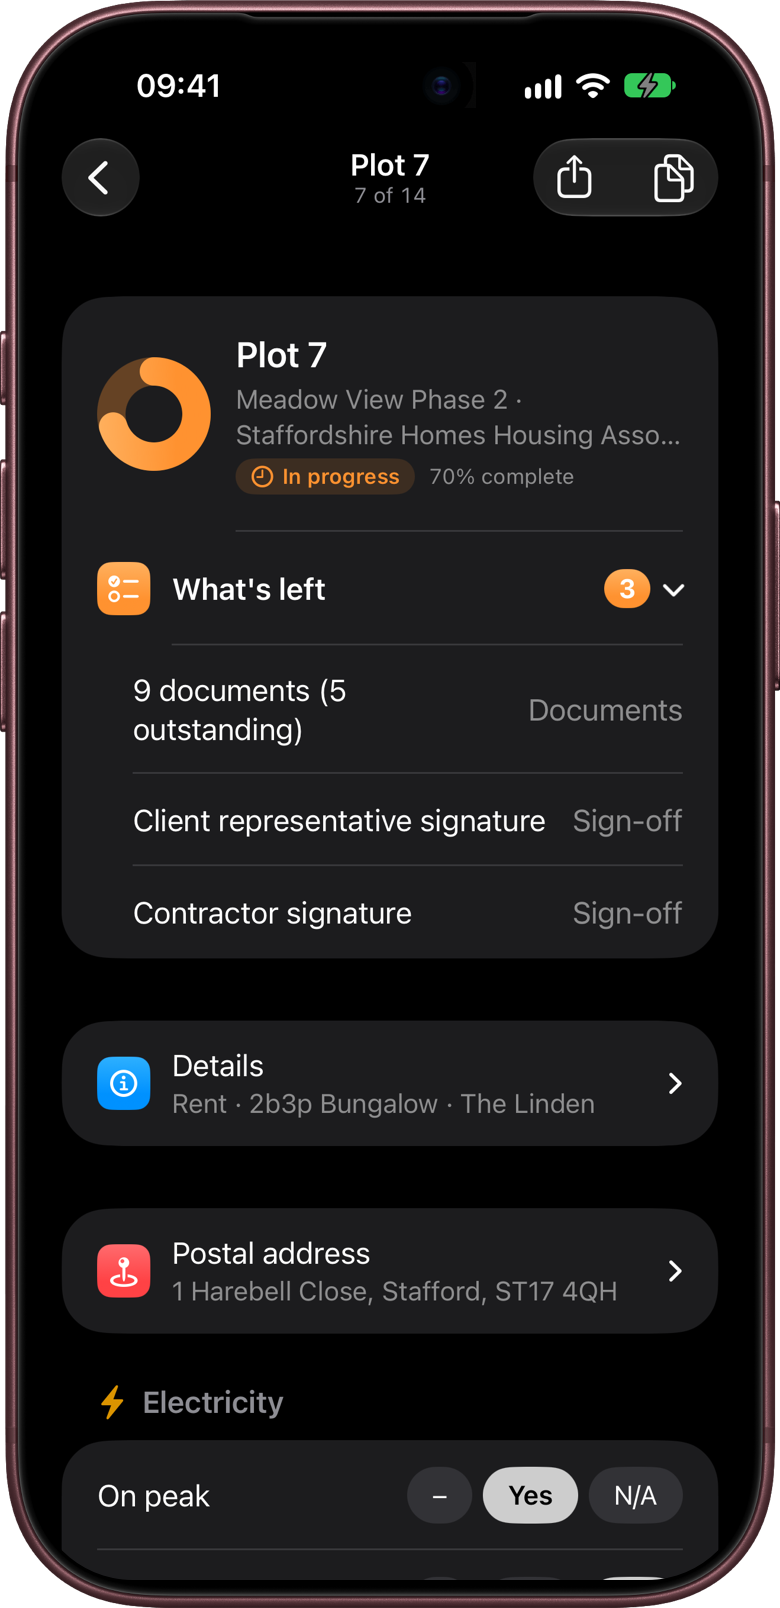
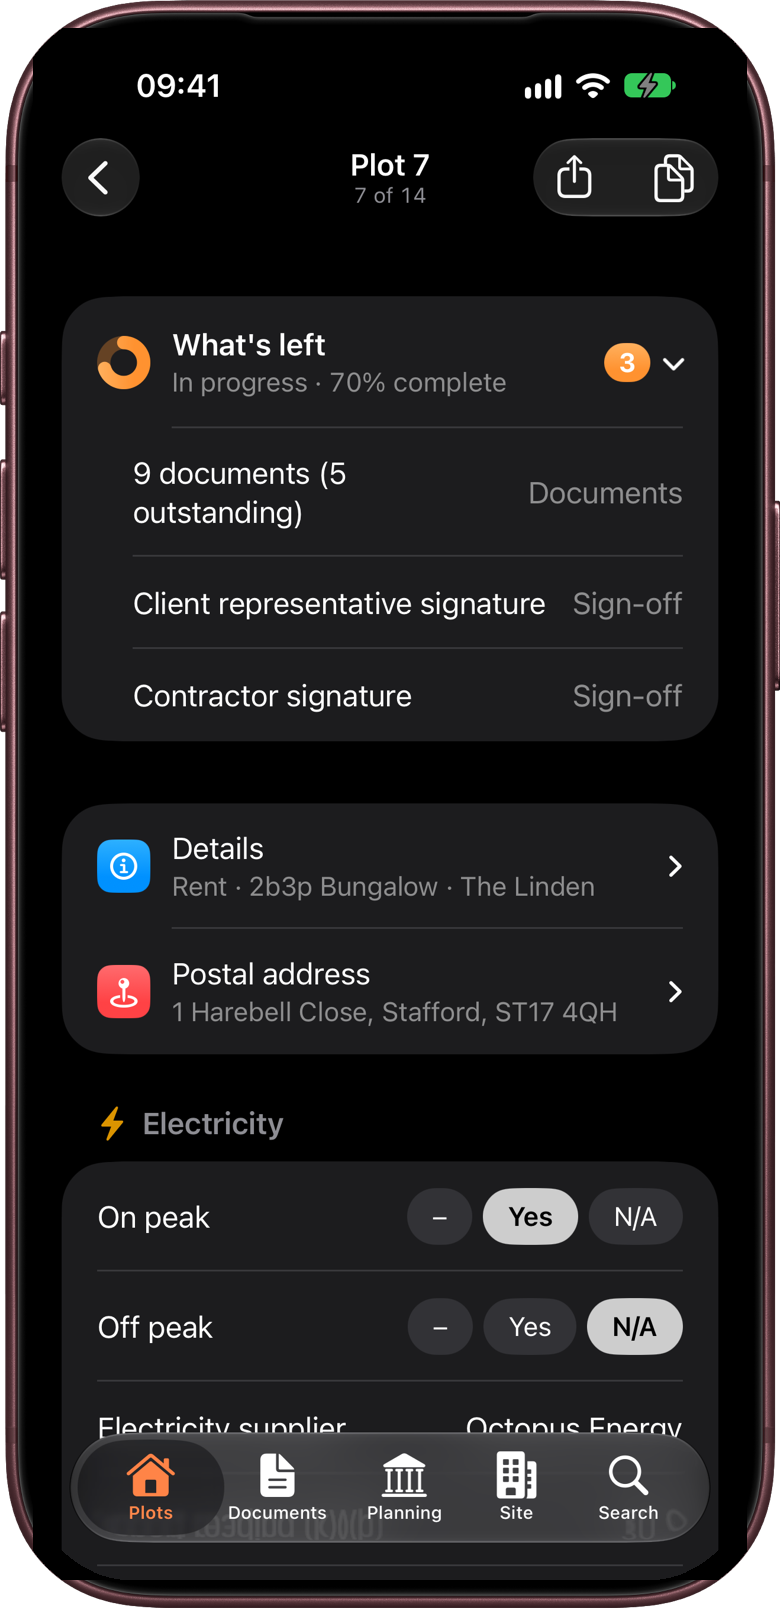
Manual: new KeyCheck screenshots for the tab bar layout
- Retake projects-screen, sample-projects, project-screen, plot-form, plot-form-top, plot-documents, copy-from-menu and project-documents
- Move the Plots tab picture into chapter 1's Inside a project section
- Update their descriptions and captions, and rebuild the search index
- Add a tool that puts an iPhone screenshot into the manual's iPhone frame

diff --git a/keycheck/manual-search-index.js b/keycheck/manual-search-index.js
@@ -22,7 +22,7 @@ window.KEYCHECK_MANUAL_INDEX = [
   "chapter": "1. What KeyCheck does",
   "heading": "Inside a project",
   "url": "manual-what-keycheck-does.html#inside-a-project",
-  "text": "An open project fills the screen, with a tab bar at the bottom: Tab What's on it Plots The list of plots, with a summary of how many are handed over. Documents The project's site-wide documents, and its attachments. Planning Planning decisions, conditions and S106 obligations. Site Insights, reports, the project log, communal keys and meters, and sharing. Search (magnifying glass) Searches everything in the project. On iPad, the tabs are a sidebar down the left. To go back to the Projects screen, tap Projects at the top left, or on iPhone swipe right from the left edge of the screen. KeyCheck remembers the last project you had open and goes back to it next time."
+  "text": "An open project fills the screen, with a tab bar at the bottom: Tab What's on it Plots The list of plots, with a summary of how many are handed over. Documents The project's site-wide documents, and its attachments. Planning Planning decisions, conditions and S106 obligations. Site Insights, reports, the project log, communal keys and meters, and sharing. Search (magnifying glass) Searches everything in the project. On iPad, the tabs are a sidebar down the left. To go back to the Projects screen, tap Projects at the top left, or on iPhone swipe right from the left edge of the screen. KeyCheck remembers the last project you had open and goes back to it next time. A project's Plots tab, with the tabs along the bottom"
  },
  {
   "chapter": "1. What KeyCheck does",
@@ -34,7 +34,7 @@ window.KEYCHECK_MANUAL_INDEX = [
   "chapter": "1. What KeyCheck does",
   "heading": "Records for the whole project",
   "url": "manual-what-keycheck-does.html#records-for-the-whole-project",
-  "text": "Some things belong to the whole site rather than one plot. These have their own place in the project, on the Documents, Planning and Site tabs: Record What it holds Project documents Site-wide paperwork, such as the fire strategy and warranties. Planning Planning decisions, conditions and S106 obligations. Communal keys Keys and fobs for bin stores, cycle stores, plant rooms and communal doors. Communal meters Meters serving the whole block, such as a landlord supply or solar panels. Project log Dated notes of site visits, issues, decisions and chases. Attachments Site plans, letters, photos and scanned documents for reference. A project screen, with the records for the whole project"
+  "text": "Some things belong to the whole site rather than one plot. These have their own place in the project, on the Documents, Planning and Site tabs: Record What it holds Project documents Site-wide paperwork, such as the fire strategy and warranties. Planning Planning decisions, conditions and S106 obligations. Communal keys Keys and fobs for bin stores, cycle stores, plant rooms and communal doors. Communal meters Meters serving the whole block, such as a landlord supply or solar panels. Project log Dated notes of site visits, issues, decisions and chases. Attachments Site plans, letters, photos and scanned documents for reference."
  },
  {
   "chapter": "1. What KeyCheck does",
@@ -586,7 +586,7 @@ window.KEYCHECK_MANUAL_INDEX = [
   "chapter": "6. Documents and certificates",
   "heading": "Marking a document",
   "url": "manual-documents-and-certificates.html#marking-a-document",
-  "text": "Each document has a status icon on the right. Swipe across the document, or tap the icon and choose a status: What you do Status Icon Meaning Swipe right Received Green tick You have the document. Swipe left Outstanding Red cross You've asked for it and are waiting for it. Nothing yet Not checked Empty circle Nobody has looked at this document yet. Tap the icon, then choose Not applicable Not applicable Grey dash This document doesn't apply to this plot. Swipe all the way across to mark it in one movement, or swipe a little way to see the buttons. Swiping left also shows Note . To clear a status back to Not checked, swipe the same way again and tap Clear , or tap the icon and choose Clear . Tip Mark a document Outstanding on the day you ask for it. That's when its waiting time starts on the progress report. Documents left as Not checked are still listed as missing, but with no waiting time. On a plot, documents are listed under a heading for each group, such as Heating & hot water , with a count of how many are done, for example \"Heating & hot water · 3 of 5\". (If the project has only one group, the heading is Instructions & certificates .) Received and Not applicable documents count as done. Outstanding ones don't, because they haven't arrived yet. Documents on a plot, with the date lines and a note under Warranty cover note"
+  "text": "Each document has a status icon on the right. Swipe across the document, or tap the icon and choose a status: What you do Status Icon Meaning Swipe right Received Green tick You have the document. Swipe left Outstanding Red cross You've asked for it and are waiting for it. Nothing yet Not checked Empty circle Nobody has looked at this document yet. Tap the icon, then choose Not applicable Not applicable Grey dash This document doesn't apply to this plot. Swipe all the way across to mark it in one movement, or swipe a little way to see the buttons. Swiping left also shows Note . To clear a status back to Not checked, swipe the same way again and tap Clear , or tap the icon and choose Clear . Tip Mark a document Outstanding on the day you ask for it. That's when its waiting time starts on the progress report. Documents left as Not checked are still listed as missing, but with no waiting time. On a plot, documents are listed under a heading for each group, such as Heating & hot water , with a count of how many are done, for example \"Heating & hot water · 3 of 5\". (If the project has only one group, the heading is Instructions & certificates .) Received and Not applicable documents count as done. Outstanding ones don't, because they haven't arrived yet. Documents on a plot, under a heading for each group"
  },
  {
   "chapter": "6. Documents and certificates",
@@ -652,7 +652,7 @@ window.KEYCHECK_MANUAL_INDEX = [
   "chapter": "6. Documents and certificates",
   "heading": "Project documents",
   "url": "manual-documents-and-certificates.html#project-documents",
-  "text": "Open a project and tap the Documents tab. Below the Attachments row (chapter 7) are the project documents. The screen works like the documents on a plot: swipe or tap the status icon to mark a document, and tap a name for its history. Swiping left shows Outstanding and More . More , or touching and holding a document, lists Add note , Dates and history , Mark as chased today (for outstanding documents), Rename… , Convert to bundle… , Clear history and Remove from project , with Received, Outstanding and Not applicable as a row of buttons at the top. At the top, a ring shows how many are complete, for example \"6 of 11 complete\", with a summary such as \"4 received · 2 outstanding · 1 N/A\". (Complete means Received or Not applicable. Outstanding documents are still waiting, so they don't count.) Changes save as you make them. There's no Done button. Project documents, with the Collateral warranties bundle opened"
+  "text": "Open a project and tap the Documents tab. Below the Attachments row (chapter 7) are the project documents. The screen works like the documents on a plot: swipe or tap the status icon to mark a document, and tap a name for its history. Swiping left shows Outstanding and More . More , or touching and holding a document, lists Add note , Dates and history , Mark as chased today (for outstanding documents), Rename… , Convert to bundle… , Clear history and Remove from project , with Received, Outstanding and Not applicable as a row of buttons at the top. At the top, a ring shows how many are complete, for example \"6 of 11 complete\", with a summary such as \"4 received · 2 outstanding · 1 N/A\". (Complete means Received or Not applicable. Outstanding documents are still waiting, so they don't count.) Changes save as you make them. There's no Done button. The Documents tab, with Attachments at the top and the Collateral warranties bundle opened"
  },
  {
   "chapter": "6. Documents and certificates",

diff --git a/tools/frame-keycheck-screenshot.swift b/tools/frame-keycheck-screenshot.swift
@@ -1,0 +1,53 @@
+// Puts an iPhone screenshot into the KeyCheck manual's iPhone frame.
+// Usage, from the website folder:
+//   swift tools/frame-keycheck-screenshot.swift tools/keycheck-iphone-frame.png <screenshot> keycheck/images/<name>.png
+// The screenshot should be a full-screen iPhone 17 Pro screenshot (1206 × 2622), PNG or JPEG.
+import Foundation
+import CoreGraphics
+import ImageIO
+import UniformTypeIdentifiers
+
+let args = CommandLine.arguments
+guard args.count == 4 else { print("Usage: frame-keycheck-screenshot <template.png> <screenshot> <output.png>"); exit(1) }
+func image(_ path: String) -> CGImage {
+    guard let src = CGImageSourceCreateWithURL(URL(fileURLWithPath: path) as CFURL, nil),
+          let img = CGImageSourceCreateImageAtIndex(src, 0, nil) else { print("Can't read \(path)"); exit(1) }
+    return img
+}
+let frame = image(args[1]), shot = image(args[2])
+// The screen inside the 780 × 1608 frame (same in CG's bottom-up coordinates, as it's centred vertically).
+let screen = CGRect(x: 33, y: 28, width: 714, height: 1552)
+let ratio = Double(shot.height) / Double(shot.width)
+if abs(ratio - screen.height / screen.width) > 0.01 {
+    print("Warning: \(shot.width) × \(shot.height) isn't the shape of an iPhone 17 Pro screen (1206 × 2622), so it will be stretched.")
+}
+guard let ctx = CGContext(data: nil, width: frame.width, height: frame.height, bitsPerComponent: 8, bytesPerRow: 0,
+                          space: CGColorSpace(name: CGColorSpace.sRGB)!, bitmapInfo: CGImageAlphaInfo.premultipliedLast.rawValue) else { exit(1) }
+ctx.interpolationQuality = .high
+ctx.draw(shot, in: screen)
+ctx.draw(frame, in: CGRect(x: 0, y: 0, width: frame.width, height: frame.height))
+
+// The screenshot's square corners reach past the phone's rounded outline. Everything outside the phone
+// (the frame's see-through pixels that join the image's edge) is put back exactly as the frame has it.
+let w = frame.width, h = frame.height
+var frameBytes = [UInt8](repeating: 0, count: w * h * 4)
+guard let frameCtx = CGContext(data: &frameBytes, width: w, height: h, bitsPerComponent: 8, bytesPerRow: w * 4,
+                               space: CGColorSpace(name: CGColorSpace.sRGB)!, bitmapInfo: CGImageAlphaInfo.premultipliedLast.rawValue),
+      let outBytes = ctx.data?.assumingMemoryBound(to: UInt8.self) else { exit(1) }
+frameCtx.draw(frame, in: CGRect(x: 0, y: 0, width: w, height: h))
+let rowBytes = ctx.bytesPerRow
+var outside = [Bool](repeating: false, count: w * h)
+var stack = [(0, 0), (w - 1, 0), (0, h - 1), (w - 1, h - 1)]
+while let (x, y) = stack.popLast() {
+    guard x >= 0, y >= 0, x < w, y < h, !outside[y * w + x], frameBytes[(y * w + x) * 4 + 3] < 255 else { continue }
+    outside[y * w + x] = true
+    stack += [(x + 1, y), (x - 1, y), (x, y + 1), (x, y - 1)]
+}
+for y in 0..<h { for x in 0..<w where outside[y * w + x] {
+    for c in 0..<4 { outBytes[y * rowBytes + x * 4 + c] = frameBytes[(y * w + x) * 4 + c] }
+} }
+guard let out = ctx.makeImage(),
+      let dest = CGImageDestinationCreateWithURL(URL(fileURLWithPath: args[3]) as CFURL, UTType.png.identifier as CFString, 1, nil) else { exit(1) }
+CGImageDestinationAddImage(dest, out, nil)
+CGImageDestinationFinalize(dest)
+print("Framed \(args[3])")

diff --git a/keycheck/manual-what-keycheck-does.html b/keycheck/manual-what-keycheck-does.html
@@ -63,7 +63,7 @@
       </p>
       <figure class="shot">
         <a href="images/projects-screen.png" target="_blank" rel="noopener noreferrer">
-          <img src="images/projects-screen.png" alt="The Projects screen showing the two sample projects with their progress rings" loading="lazy">
+          <img src="images/projects-screen.png" alt="The Projects screen, with a map showing both sample projects, totals of 19 plots and units, 7 in progress and 6 handed over, and the two sample projects: Riverside Business Park at 74% with 5 buildings, and Meadow View Phase 2 at 61% with 14 plots" loading="lazy">
         </a>
         <figcaption>The Projects screen, with the two sample projects</figcaption>
       </figure>
@@ -85,6 +85,12 @@
         </table>
       </div>
       <p>On iPad, the tabs are a sidebar down the left. To go back to the Projects screen, tap <strong>Projects</strong> at the top left, or on iPhone swipe right from the left edge of the screen. KeyCheck remembers the last project you had open and goes back to it next time.</p>
+      <figure class="shot">
+        <a href="images/project-screen.png" target="_blank" rel="noopener noreferrer">
+          <img src="images/project-screen.png" alt="Meadow View Phase 2 on the Plots tab: 4 of 14 handed over, 61%, with tiles for 3 not started, 4 handed over, 2 awaiting sign-off and 5 in progress, the plot list underneath, and the Plots, Documents, Planning, Site and Search tabs at the bottom" loading="lazy">
+        </a>
+        <figcaption>A project's Plots tab, with the tabs along the bottom</figcaption>
+      </figure>
 
       <h3 id="plots">Plots</h3>
       <p>
@@ -109,7 +115,7 @@
       </div>
       <figure class="shot">
         <a href="images/plot-form.png" target="_blank" rel="noopener noreferrer">
-          <img src="images/plot-form.png" alt="The top of a handed-over plot's form, showing Details, Postal address and Electricity" loading="lazy">
+          <img src="images/plot-form.png" alt="The top of Plot 1's form: Handed over, Everything is recorded, then one card with Details (Rent, 3b5p House, The Ashford, handover 9 Oct 2026) and Postal address (2 Meadow Way, Stafford), then the start of Electricity" loading="lazy">
         </a>
         <figcaption>The handover form for a handed-over plot</figcaption>
       </figure>
@@ -131,12 +137,6 @@
           </tbody>
         </table>
       </div>
-      <figure class="shot">
-        <a href="images/project-screen.png" target="_blank" rel="noopener noreferrer">
-          <img src="images/project-screen.png" alt="The Meadow View Phase 2 project screen, showing the plot counts and project records" loading="lazy">
-        </a>
-        <figcaption>A project screen, with the records for the whole project</figcaption>
-      </figure>
 
       <h3 id="the-form">The form</h3>
       <p>

diff --git a/keycheck/manual-documents-and-certificates.html b/keycheck/manual-documents-and-certificates.html
@@ -68,9 +68,9 @@
 
       <figure class="shot">
         <a href="images/plot-documents.png" target="_blank" rel="noopener noreferrer">
-          <img src="images/plot-documents.png" alt="Plot 8's documents, with a status icon beside each document. Water &amp; plumbing is 2 of 3 complete and Compliance &amp; warranties 2 of 5. Energy Performance Certificate shows Waiting 31 days, Warranty cover note shows Waiting 35 days · chased 10 Nov with a purple note, Robust details certificate is not checked yet, and received documents show their dates" loading="lazy">
+          <img src="images/plot-documents.png" alt="Plot 8's documents under their group headings, each with a count and a ⋯ button: Ventilation &amp; tightness 2 of 3, Water &amp; plumbing 2 of 3 and Compliance &amp; warranties 2 of 5. Received documents have a green tick, and outstanding ones a red cross and a line such as Waiting 34 days · chased 11 Nov" loading="lazy">
         </a>
-        <figcaption>Documents on a plot, with the date lines and a note under Warranty cover note</figcaption>
+        <figcaption>Documents on a plot, under a heading for each group</figcaption>
       </figure>
       <h4 id="not-applicable">Not applicable</h4>
       <p><strong>Not applicable</strong> is for one-off exceptions, such as no gas certificate on an all-electric plot.</p>
@@ -179,9 +179,9 @@
 
       <figure class="shot">
         <a href="images/project-documents.png" target="_blank" rel="noopener noreferrer">
-          <img src="images/project-documents.png" alt="The Project documents screen, with a ring showing 3 of 7 complete, 3 received · 4 outstanding, and the Collateral warranties bundle opened to show 2 of 5 received and its items" loading="lazy">
+          <img src="images/project-documents.png" alt="Riverside Business Park's Documents tab: the Attachments row at the top, a ring showing 3 of 7 complete, 3 received · 4 outstanding, and the Collateral warranties bundle opened to show 2 of 5 received and its first items" loading="lazy">
         </a>
-        <figcaption>Project documents, with the Collateral warranties bundle opened</figcaption>
+        <figcaption>The Documents tab, with Attachments at the top and the Collateral warranties bundle opened</figcaption>
       </figure>
       <h4 id="choosing-the-project-documents">Choosing the project documents</h4>
       <p>The first time, the screen is empty. Tap <strong>Add documents</strong> to choose some. Later, tap the <strong>⋯</strong> button (top right) and choose <strong>Manage document list</strong>. Then:</p>

diff --git a/keycheck/manual-recording-a-plot-handover.html b/keycheck/manual-recording-a-plot-handover.html
@@ -63,7 +63,7 @@
       <p>The ring counts meters, keys, documents and signatures. A document counts once it's Received or Not applicable. One marked Outstanding has been asked for but hasn't arrived, so it still shows in <strong>What's left</strong>, for example "2 documents (1 outstanding)". Final snags and notes don't count towards the ring, because a plot can be handed over with snags still open.</p>
       <figure class="shot">
         <a href="images/plot-form-top.png" target="_blank" rel="noopener noreferrer">
-          <img src="images/plot-form-top.png" alt="The top of a plot's form: the progress ring, In progress, 70% complete, and What's left opened to show 9 documents (5 outstanding) and two signatures still needed" loading="lazy">
+          <img src="images/plot-form-top.png" alt="The top of Plot 7's form: What's left opened, with In progress, 70% complete and an orange 3, listing 9 documents (5 outstanding), Client representative signature and Contractor signature, then the Details and Postal address card" loading="lazy">
         </a>
         <figcaption>The top of the form, with What's left opened</figcaption>
       </figure>
@@ -271,7 +271,7 @@
       <p><strong>Quicker still:</strong> in the plot list, swipe right on a plot and tap <strong>Copy from</strong> to copy keys and suppliers from the plot above it, without opening it. This copies straight away, so check you've chosen the right plot.</p>
       <figure class="shot">
         <a href="images/copy-from-menu.png" target="_blank" rel="noopener noreferrer">
-          <img src="images/copy-from-menu.png" alt="The Copy from menu: Copy from previous, Copy this setup, Paste setup, and a list of nearby units to copy from" loading="lazy">
+          <img src="images/copy-from-menu.png" alt="Plot 8 with the Copy from menu open: Copy from previous (Plot 7) at the top, then a list of nearby plots to copy from, Plot 3 to Plot 12" loading="lazy">
         </a>
         <figcaption>The Copy from menu</figcaption>
       </figure>

diff --git a/keycheck/manual-setting-up.html b/keycheck/manual-setting-up.html
@@ -152,7 +152,7 @@
       <p>Sample projects have a <strong>Sample</strong> badge in the Projects list. They stay on this device and are never synced or shared, so you can change anything in them without affecting anyone else. Editing them needs KeyCheck Pro, like any other project.</p>
       <figure class="shot">
         <a href="images/sample-projects.png" target="_blank" rel="noopener noreferrer">
-          <img src="images/sample-projects.png" alt="The Projects screen showing Meadow View Phase 2 and Riverside Business Park, each with a Sample badge" loading="lazy">
+          <img src="images/sample-projects.png" alt="The Projects screen with Riverside Business Park and Meadow View Phase 2, each with an orange Sample badge" loading="lazy">
         </a>
         <figcaption>The two sample projects, with their Sample badges</figcaption>
       </figure>
